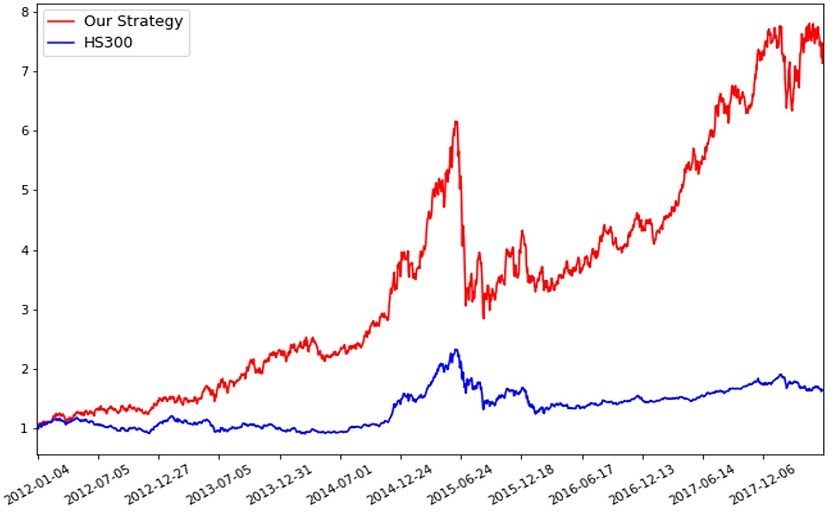
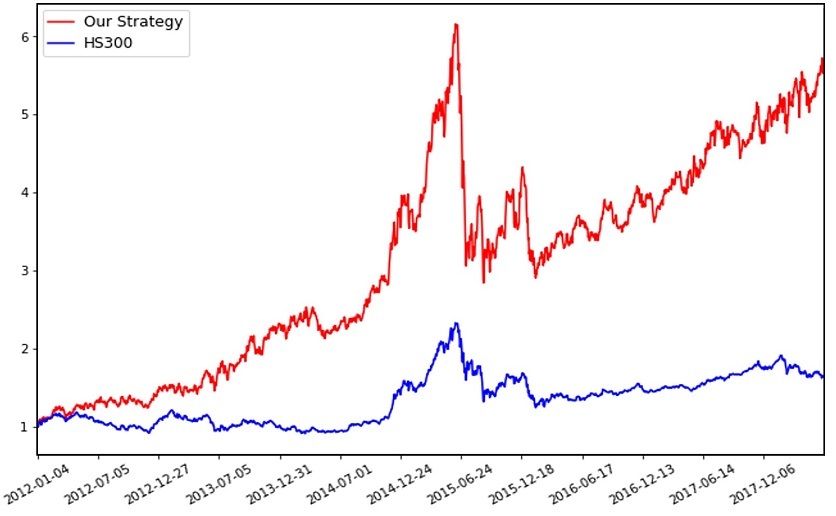
update

diff --git a/index.html b/index.html
@@ -120,8 +120,11 @@
 					<div class="col-xs-10 col-sm-10 col-md-10 col-xs-offset-1 col-md-offset-1 col-sm-offset-1">
 						<div class="wow fadeInUp" id="intro" data-wow-delay="0.2s">
 							<p>
-							&nbsp;&nbsp;&nbsp;&nbsp;&nbsp;&nbsp;&nbsp;&nbsp;AIQuant依托浙江大学科研团队，致力于人工智能量化交易策略研究。以历史数据统计分析为基础挖掘内在规律，以机器学习和智能决策为方法制定统计意义上大概率胜的交易策略，从而获得长期超额收益。研究范围涵盖股票、商品期货、加密货币金融衍生品等。<br>
-							&nbsp;&nbsp;&nbsp;&nbsp;&nbsp;&nbsp;&nbsp;&nbsp;AIQuant目前已与某知名私募（百亿规模）成立了量化金融联合研究中心，并欢迎更多形式的合作。
+						AIQuant依托浙江大学科研团队，致力于人工智能量化交易策略研究。以历史数据统计分析为基础挖掘内在规律，以机器学习和智能决策为方法制定统计意义上大概率胜的交易策略，从而获得长期超额收益。研究范围涵盖股票、商品期货、加密货币、金融衍生品等。
+							</p>
+							<p>
+							AIQuant目前已与某知名私募（百亿规模）成立了量化金融联合研究中心，并欢迎更多形式的合作。
+							</p>
 						</div>
 					</div>
 				</div>
@@ -165,7 +168,7 @@
 									</div>
 								</div>
 							</a>
-							<p class="no-gutter wow fadeInUp" data-wow-delay="0.2s">通过递归神经网络LSTM技术预测股票池中每只股票下一周上涨概率，买入排名靠前者。上图以沪深300成分股为股票池，纵坐标为总资产相对初始投入的倍数。</p>
+							<p class="no-gutter wow fadeInUp strategySingleP" data-wow-delay="0.2s">通过深度概率神经网络预测股票池中每只股票下一周上涨概率，买入排名靠前者。上图以沪深300成分股为股票池，纵坐标为总资产相对初始投入的倍数。（策略曲线为全程满仓且未加任何回撤控制的曲线）</p>
 						</div>
 					</div>
 
@@ -217,7 +220,7 @@
 									</div>
 								</a>
 							</div>
-							<p class="no-gutter wow fadeInUp" data-wow-delay="0.2s">对按我们的标准选定的一对股票，智能捕捉切换时机，以提升收益。以上4图对应4对不同股票(蓝色曲线对应我们的策略，纵坐标为总资产相对初始投入的倍数)。</p>
+							<p class="no-gutter wow fadeInUp strategySingleP" data-wow-delay="0.2s">对按我们的标准选定的一对股票，智能捕捉切换时机，以提升收益。以上4图对应4对不同股票(蓝色曲线对应我们的策略，纵坐标为总资产相对初始投入的倍数)。</p>
 
 						</div>
 					</div>
@@ -227,8 +230,8 @@
 					<h2>商品期货</h2>
 					<div class="no-gutter wow fadeInLeft" data-wow-delay="0.2s">
 						<div class="col-lg-5 col-sm-5 col-lg-offset-1 col-sm-offset-1 strategyItem">
-							<a href="#galleryModal" class="gallery-box" data-toggle="modal" data-src="img/strategy/HealthFigure_2weeks.jpg">
-								<img src="img/strategy/HealthFigure_2weeks.jpg" class="img-responsive" alt="Image 1">
+							<a href="#galleryModal" class="gallery-box" data-toggle="modal" data-src="img/strategy/2weeks.jpg">
+								<img src="img/strategy/2weeks.jpg" class="img-responsive" alt="Image 1">
 								<div class="gallery-box-caption">
 									<div class="gallery-box-content">
 										<div>
@@ -242,8 +245,8 @@
 
 					<div class="no-gutter wow fadeInRight" data-wow-delay="0.2s">
 						<div class="col-lg-5 col-sm-5 strategyItem">
-							<a href="#galleryModal" class="gallery-box" data-toggle="modal" data-src="img/strategy/HealthFigure_3weeks.jpg">
-								<img src="img/strategy/HealthFigure_3weeks.jpg" class="img-responsive" alt="Image 1">
+							<a href="#galleryModal" class="gallery-box" data-toggle="modal" data-src="img/strategy/3weeks.jpg">
+								<img src="img/strategy/3weeks.jpg" class="img-responsive" alt="Image 1">
 								<div class="gallery-box-caption">
 									<div class="gallery-box-content">
 										<div>
@@ -255,15 +258,15 @@
 							
 						</div>
 					</div>
-					<p class="no-gutter wow fadeInUp" data-wow-delay="0.2s">采取市场中性策略，智能捕捉对冲机会。（左图：2周，右图：3周）</p>
+					<p class="no-gutter wow fadeInUp strategyMultiP" data-wow-delay="0.2s">采取市场中性策略，智能捕捉对冲机会。虽测试时间较短，但交易机会较多，已有一定统计意义。（左图：2周，右图：3周，纵坐标为账户收益率）</p>
 				</div>
 				<hr class="strategyHr">
 				<div class="row">
 					<h2>加密货币</h2>
 					<div class="no-gutter wow fadeInLeft" data-wow-delay="0.2s">
 						<div class="col-lg-5 col-sm-5 col-lg-offset-1 col-sm-offset-1 strategyItem">
-							<a href="#galleryModal" class="gallery-box" data-toggle="modal" data-src="img/strategy/celue1.png">
-								<img src="img/strategy/celue1.png" class="img-responsive" alt="Image 1">
+							<a href="#galleryModal" class="gallery-box" data-toggle="modal" data-src="img/strategy/celue1.jpg">
+								<img src="img/strategy/celue1.jpg" class="img-responsive" alt="Image 1">
 								<div class="gallery-box-caption">
 									<div class="gallery-box-content">
 										<div>
@@ -277,8 +280,8 @@
 
 					<div class="no-gutter wow fadeInRight" data-wow-delay="0.2s">
 						<div class="col-lg-5 col-sm-5 strategyItem">
-							<a href="#galleryModal" class="gallery-box" data-toggle="modal" data-src="img/strategy/celue2.png">
-								<img src="img/strategy/celue2.png" class="img-responsive" alt="Image 1">
+							<a href="#galleryModal" class="gallery-box" data-toggle="modal" data-src="img/strategy/celue2.jpg">
+								<img src="img/strategy/celue2.jpg" class="img-responsive" alt="Image 1">
 								<div class="gallery-box-caption">
 									<div class="gallery-box-content">
 										<div>
@@ -290,12 +293,12 @@
 							
 						</div>
 					</div>
-					<p>采用市场中性策略，以比特币数量的增加为主要目标来设计策略，实现在牛市熊市均可获得比特币的正收益。</p>
+					<p class="strategyMultiP">采用市场中性策略，以比特币数量的增加为主要目标来设计策略，实现在牛市熊市均可获得比特币数量的增加。（纵坐标为比特币的数量相对初始投入的倍数）</p>
 				</div>
 
-				<div class="row" style="margin-bottom: 100px">
+				<div class="row moreToComeSoon">
 					<div class="col-lg-6 col-sm-6 col-lg-offset-3 col-sm-offset-3">
-						<h3 style="margin-top: 5px;text-transform: Lowercase">more to come soon...</h3>
+						<h3 style="margin-top: 5px;text-transform: Lowercase" >more to come soon...</h3>
 					</div>
 				</div>
 

diff --git a/css/style.css b/css/style.css
@@ -326,7 +326,9 @@ hr {
 ============================ */
 
 #intro p {
-  text-align: left;
+  text-align: justify;
+  text-indent: 2em;
+  margin-bottom: 0;
 }
 
 .boxed-grey {
@@ -733,6 +735,11 @@ Parallax
 
 }
 
+@media(min-width: 720px) {
+  .moreToComeSoon {
+    margin-bottom: 100px;
+  }
+}
 
 @media (max-width:720px) {
 	.team.boxed-grey {
@@ -771,6 +778,10 @@ Parallax
     font-size: 10px;
   }
 
+  .moreToComeSoon {
+    margin-bottom: 0px;
+  }
+
 }
 
 @media(max-height: 600px) {
@@ -784,7 +795,7 @@ Parallax
   }
 
   #map {
-    height: 250px;
+    height: 200px;
   }  
 
 
@@ -906,7 +917,7 @@ Parallax
 .gallery-box {
     display: block;
     position: relative;
-    margin: 0 auto;
+    /*margin: 0 auto;*/
     max-width: 600px;
     overflow:hidden;
 }
@@ -1023,9 +1034,19 @@ Parallax
 }
 
 
-#strategy p {
+.strategySingleP {
   color: #000;
+  text-align: justify;
+  width: 90%;
+  margin-top: 30px;
+  margin-left: 5%;
+  font-size: 16px;
+  display: inline-block;
+}
+
+.strategyMultiP {
   text-align: center;
+  color: #000;
   width: 90%;
   margin-top: 30px;
   margin-left: 5%;
@@ -1043,6 +1064,7 @@ Parallax
 .strategyHr {
   width: 60%;
 }
+
 .multiImgContainer {
   display: inline-flex;
   flex-wrap: wrap;

diff --git a/js/main.js b/js/main.js
@@ -3,7 +3,7 @@ $(function() {
 
 	if(width<720) {
 		$('.slogan').css({'margin-top': "5px"});
-	}
+	} else{
 		$.scrollify({
 			section: '.panel',
 			scrollbars: false,
@@ -30,6 +30,7 @@ $(function() {
 		if(sloganMargin>0) {
 			$('.slogan').css({'margin-top': sloganMargin});
 		}
+	}
 });
 
 $(window).resize(function () {
